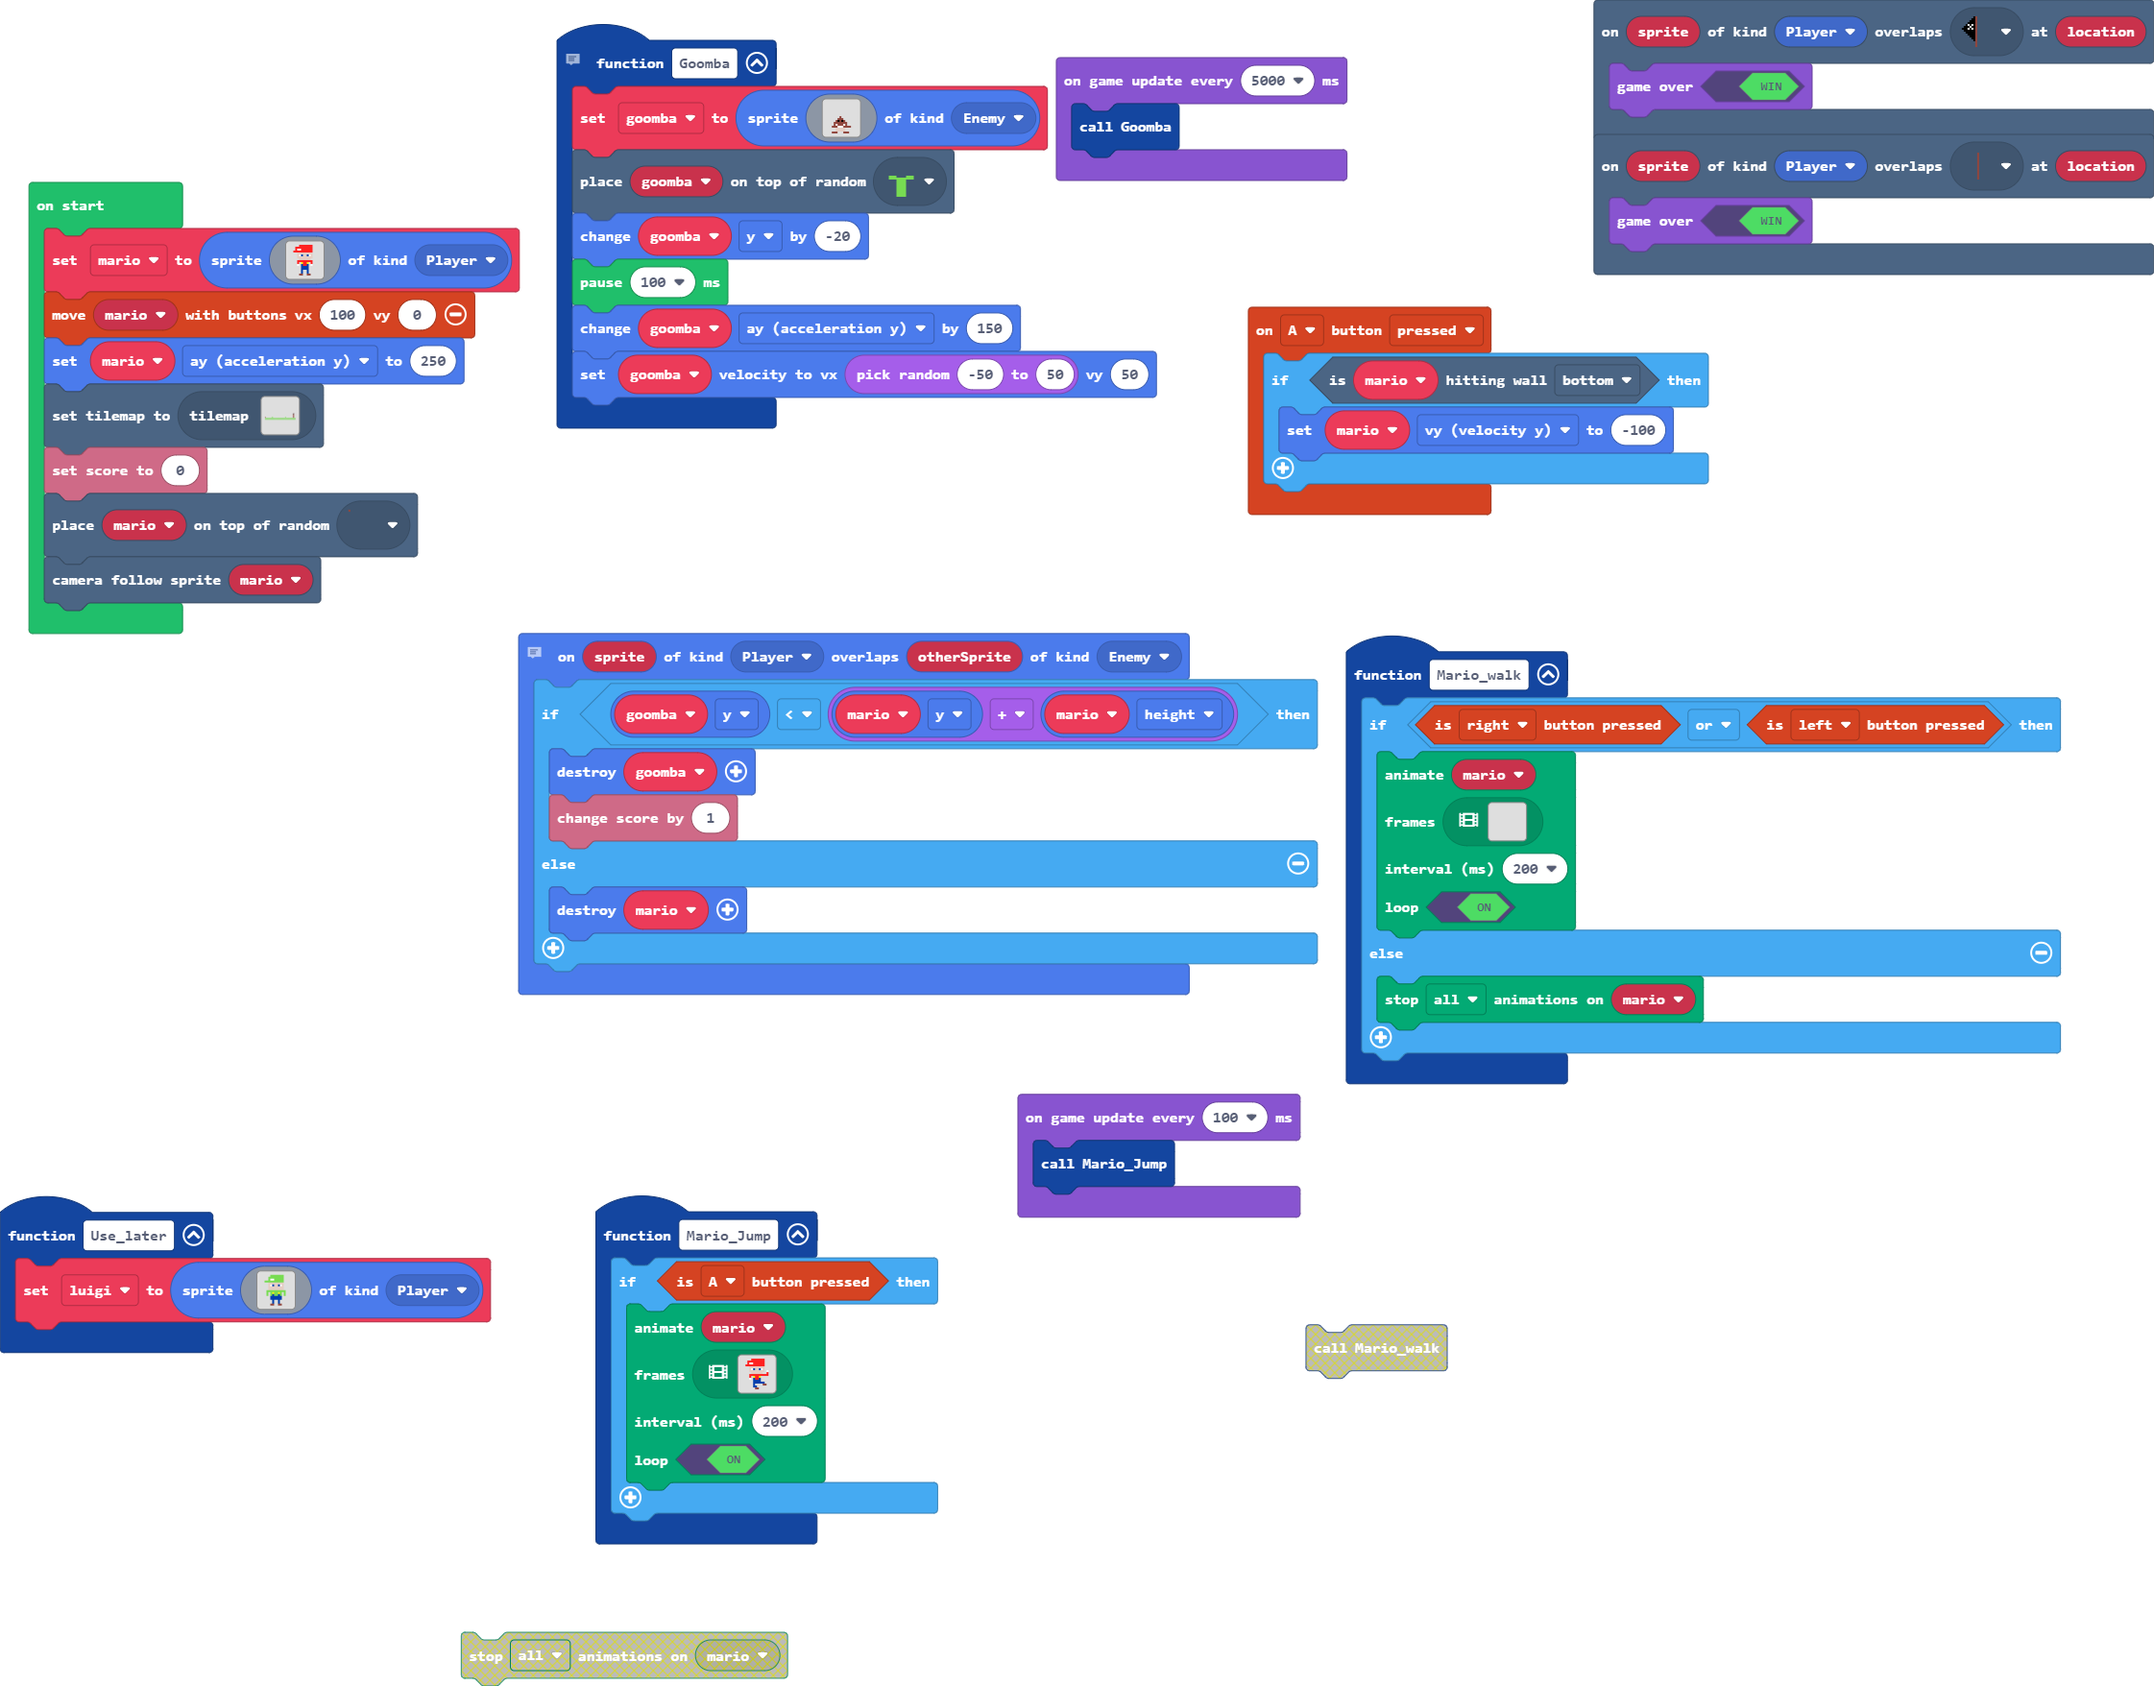
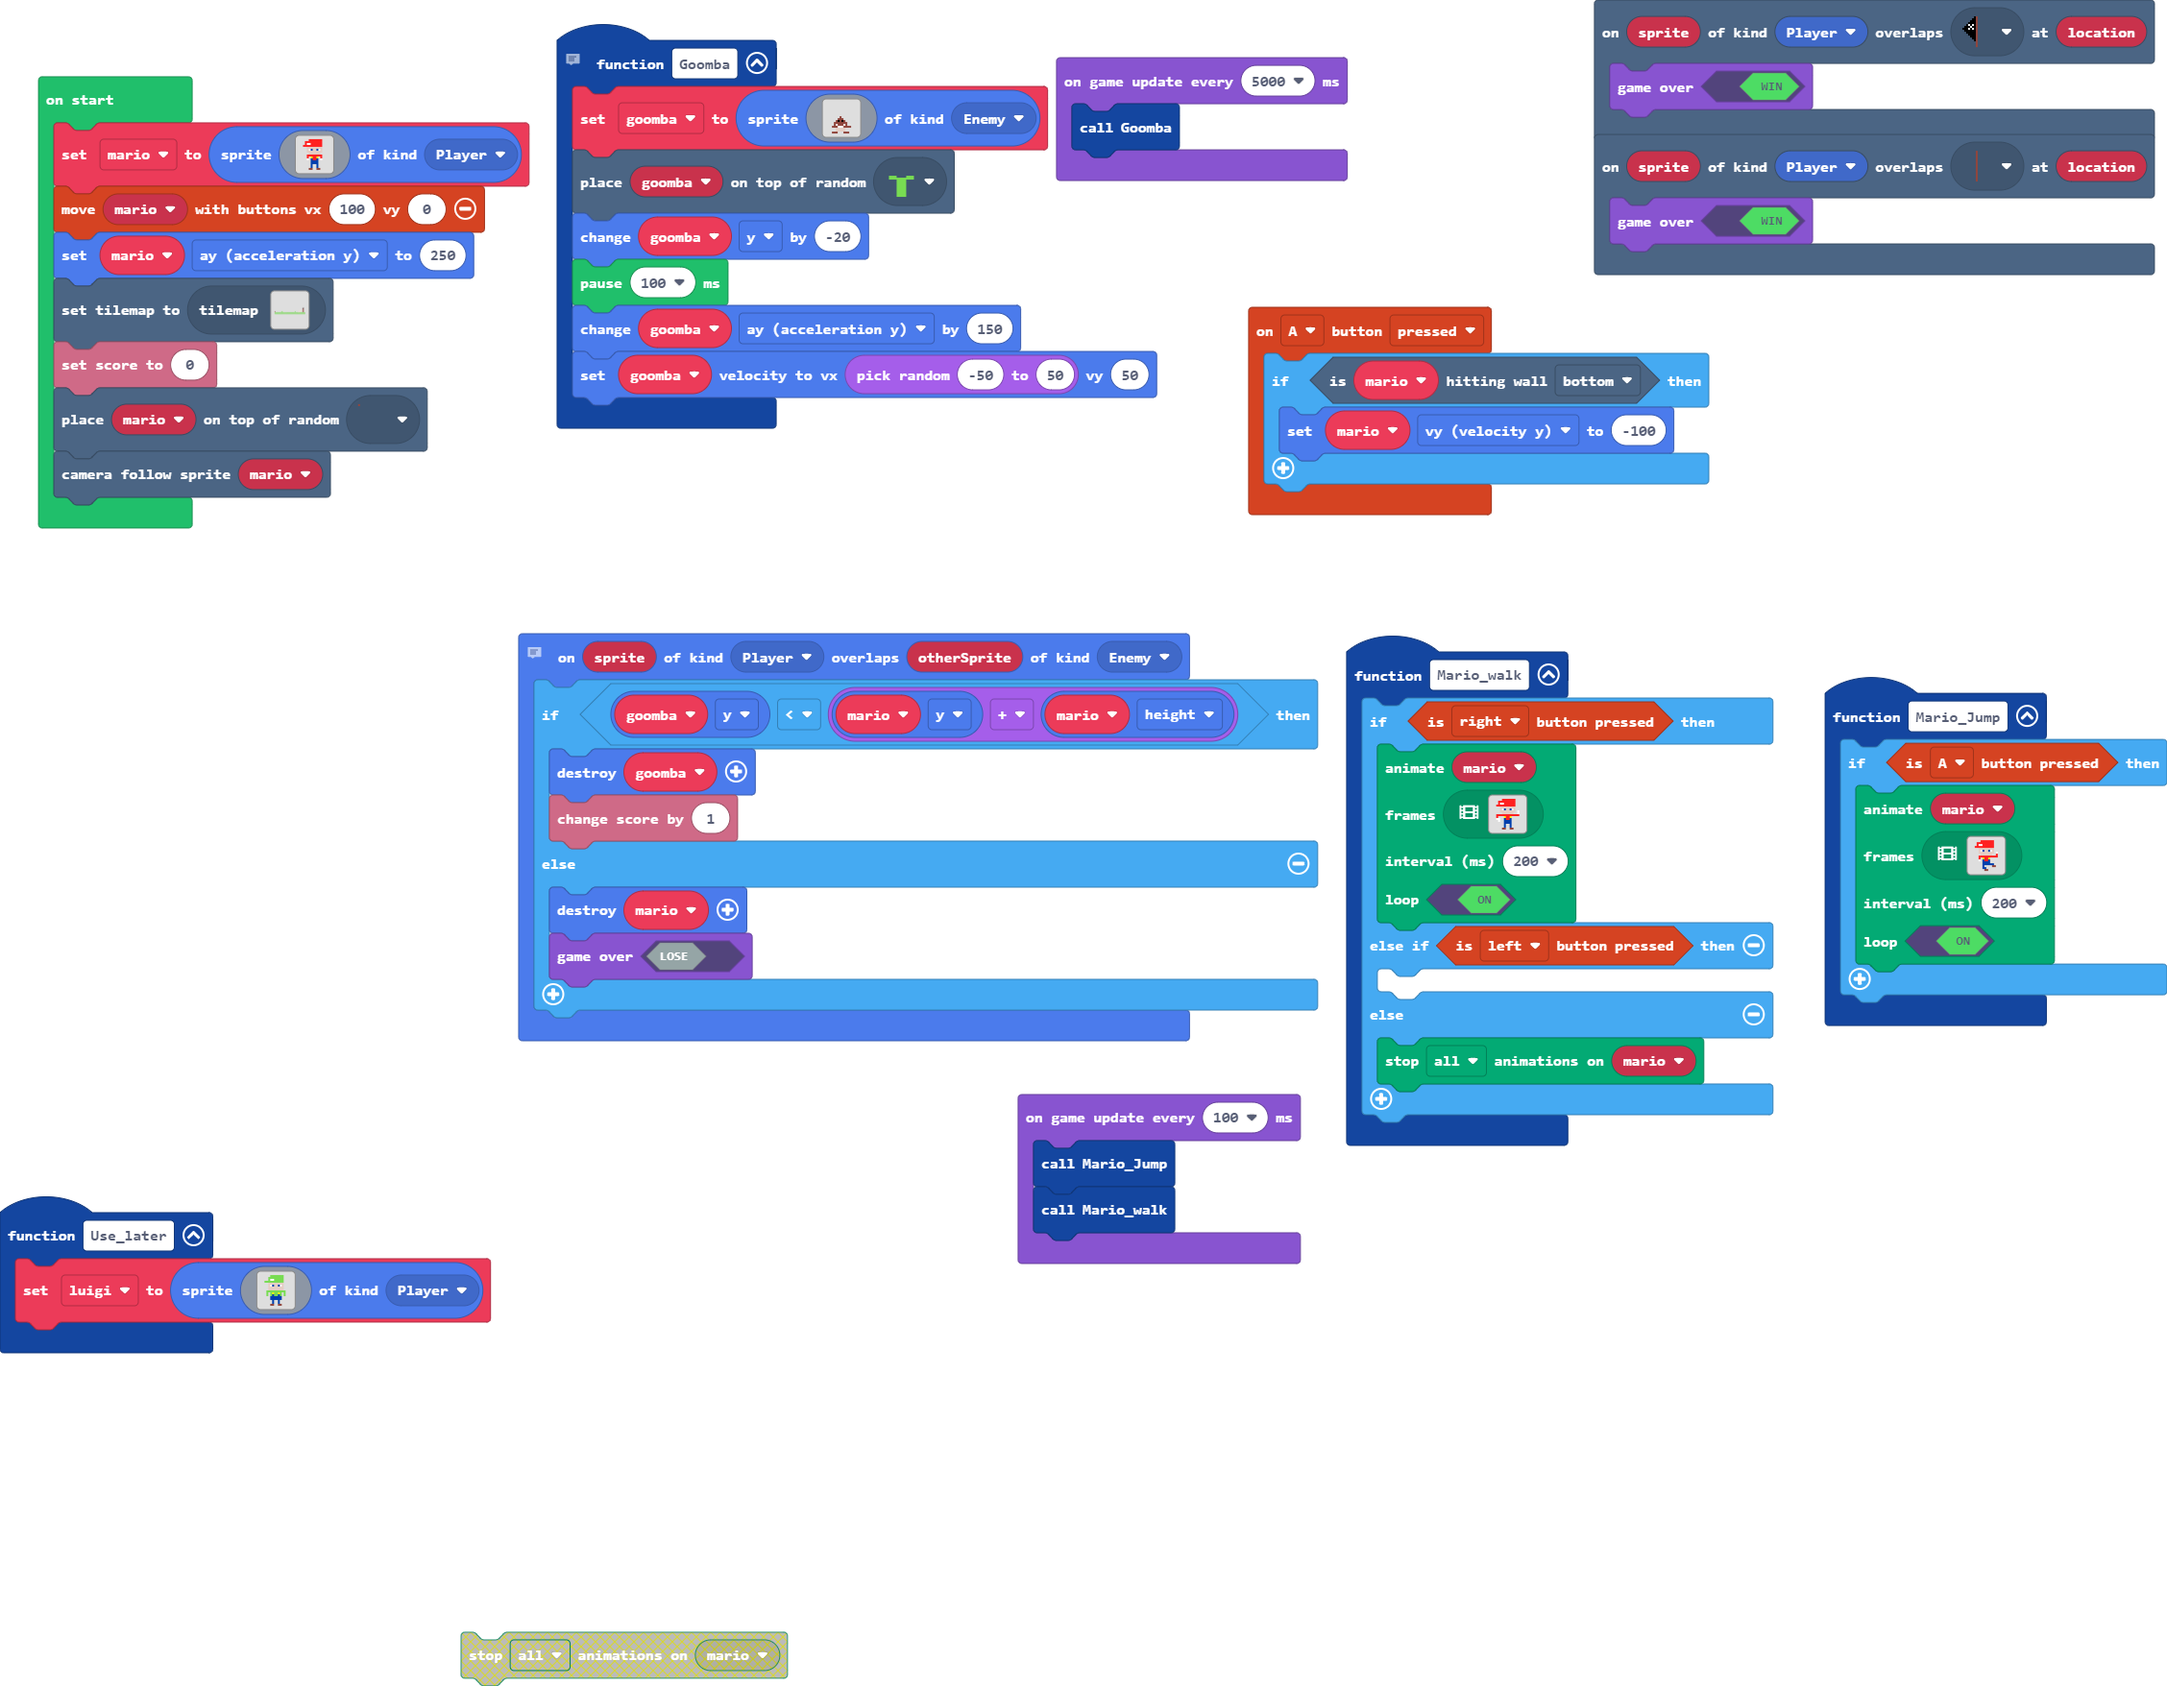
changed some of the over lap and jump/walk animations

diff --git a/tilemap.g.ts b/tilemap.g.ts
@@ -19,19 +19,6 @@ namespace myTiles {
 
     helpers._registerFactory("tilemap", function(name: string) {
         switch(helpers.stringTrim(name)) {
-            case "level1":
[1 lines of base64/hex data omitted]
-...................................
-...................................
-...................................
-...................................
-...................................
-...................................
-...................................
-........2..............2...........
-22222222222222222222222222222222222
-22222222222222222222222222222222222
-`, [myTiles.transparency16,sprites.castle.tileGrass2,myTiles.tile1,myTiles.tile6,myTiles.tile2,myTiles.tile4,myTiles.tile5], TileScale.Sixteen);
             case "level2":
             case "level2":return tiles.createTilemap(hex`1000100000000000000000000000000000000000000000000000000000000000000000000000000000000000000000000000000000000000000000000000000000000000000000000000000000000000000000000000000000000000000000000000000000000000000000000000000000000000000000000000000000000000000000000000000000000000000000000000000000000000000000000000000000000000000000000000000000000000000000000000000000000000000000000000000000000000000000000000000000000000000000000000000000000000000000000000000000000000000000000000000000000000000000000000000000000000`, img`
 . . . . . . . . . . . . . . . . 
@@ -70,6 +57,19 @@ namespace myTiles {
 . . . . . . . . . . . . . . . . 
 . . . . . . . . . . . . . . . . 
 `, [myTiles.transparency16], TileScale.Sixteen);
+            case "level1":
[1 lines of base64/hex data omitted]
+...................................
+...................................
+...................................
+...................................
+...................................
+.............................2.....
+............................22.....
+........2..............2...222..2..
+22222222222222222222222222222222222
+22222222222222222222222222222222222
+`, [myTiles.transparency16,sprites.castle.tileGrass2,myTiles.tile1,myTiles.tile6,myTiles.tile2,myTiles.tile4,myTiles.tile5,sprites.builtin.brick], TileScale.Sixteen);
         }
         return null;
     })

diff --git a/main.ts b/main.ts
@@ -24,39 +24,41 @@ function Goomba () {
     goomba.ay += 150
     goomba.setVelocity(randint(-50, 50), 50)
 }
-scene.onOverlapTile(SpriteKind.Player, assets.tile`myTile1`, function (sprite, location) {
-    game.gameOver(true)
-})
 controller.A.onEvent(ControllerButtonEvent.Pressed, function () {
     if (mario.isHittingTile(CollisionDirection.Bottom)) {
         mario.vy = -100
     }
 })
+scene.onOverlapTile(SpriteKind.Player, assets.tile`myTile3`, function (sprite, location) {
+    game.gameOver(true)
+})
 function Mario_walk () {
-    if (controller.right.isPressed() || controller.left.isPressed()) {
+    if (controller.right.isPressed()) {
         animation.runImageAnimation(
         mario,
         [img`
-            . . . . . . . . . . . . . . . . 
-            . . . . . . . . . . . . . . . . 
-            . . . . . . . . . . . . . . . . 
-            . . . . . . . . . . . . . . . . 
-            . . . . . . . . . . . . . . . . 
-            . . . . . . . . . . . . . . . . 
-            . . . . . . . . . . . . . . . . 
-            . . . . . . . . . . . . . . . . 
-            . . . . . . . . . . . . . . . . 
-            . . . . . . . . . . . . . . . . 
-            . . . . . . . . . . . . . . . . 
-            . . . . . . . . . . . . . . . . 
-            . . . . . . . . . . . . . . . . 
-            . . . . . . . . . . . . . . . . 
-            . . . . . . . . . . . . . . . . 
-            . . . . . . . . . . . . . . . . 
+            . . . . . 2 2 2 2 2 2 2 . . . . 
+            . . . 2 2 2 2 2 2 2 2 2 . . . . 
+            . . . 2 1 1 2 2 2 2 2 2 . . . . 
+            . . 2 2 2 2 2 2 2 2 2 2 . . . . 
+            . . . . d d d d d d d d . . . . 
+            . . . . d 1 8 d d 8 1 d . . . . 
+            . . . . d d d d d d d d . 1 . . 
+            . . . . . d d d d d d . . 1 . . 
+            . . 2 2 2 2 2 2 2 2 2 2 2 2 . . 
+            . . 2 . . . 5 2 2 5 . . . . . . 
+            . . 1 1 . . 8 2 2 8 . . . . . . 
+            . . . 1 . . 8 8 8 8 . . . . . . 
+            . . . . . . 8 8 8 8 . . . . . . 
+            . . . . . . 8 . . 8 . . . . . . 
+            . . . . . . 8 . . 8 . . . . . . 
+            . . . . . e e . . e e . . . . . 
             `],
         200,
         true
         )
+    } else if (controller.left.isPressed()) {
+    	
     } else {
         animation.stopAnimation(animation.AnimationTypes.All, mario)
     }
@@ -118,6 +120,7 @@ sprites.onOverlap(SpriteKind.Player, SpriteKind.Enemy, function (sprite, otherSp
         info.changeScoreBy(1)
     } else {
         sprites.destroy(mario)
+        game.gameOver(false)
     }
 })
 let luigi: Sprite = null
@@ -135,4 +138,5 @@ game.onUpdateInterval(5000, function () {
 })
 game.onUpdateInterval(100, function () {
     Mario_Jump()
+    Mario_walk()
 })
